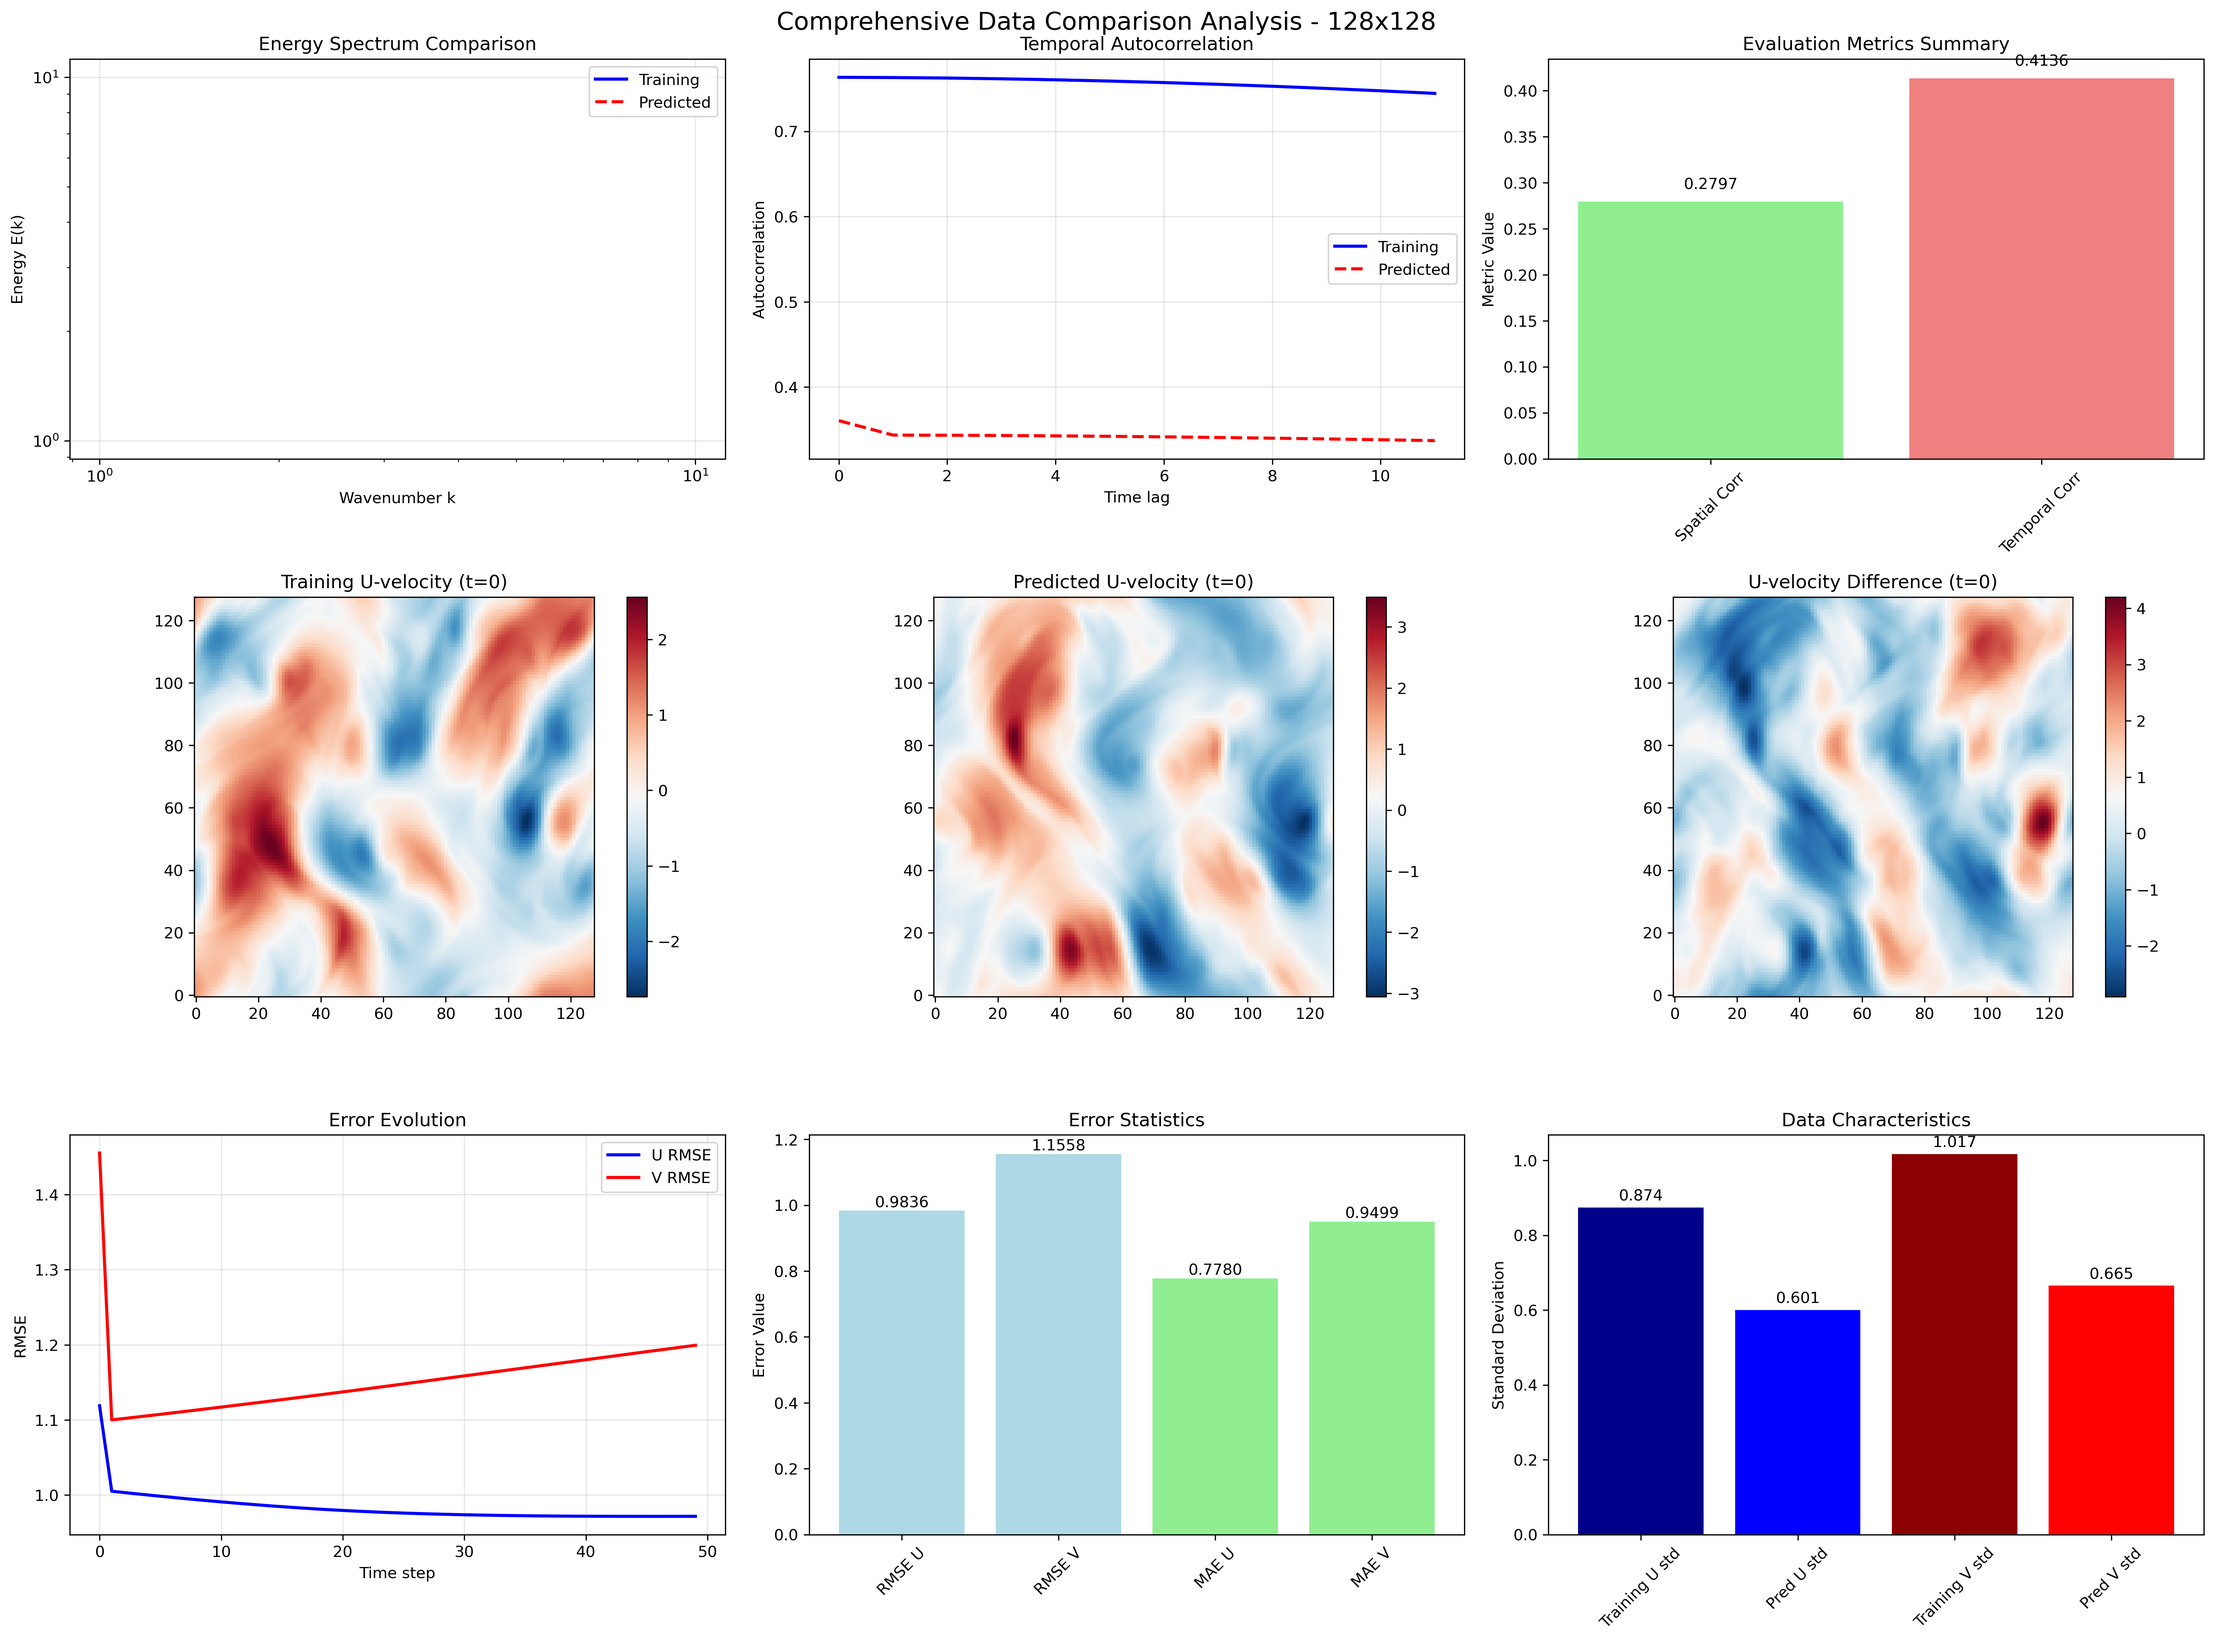
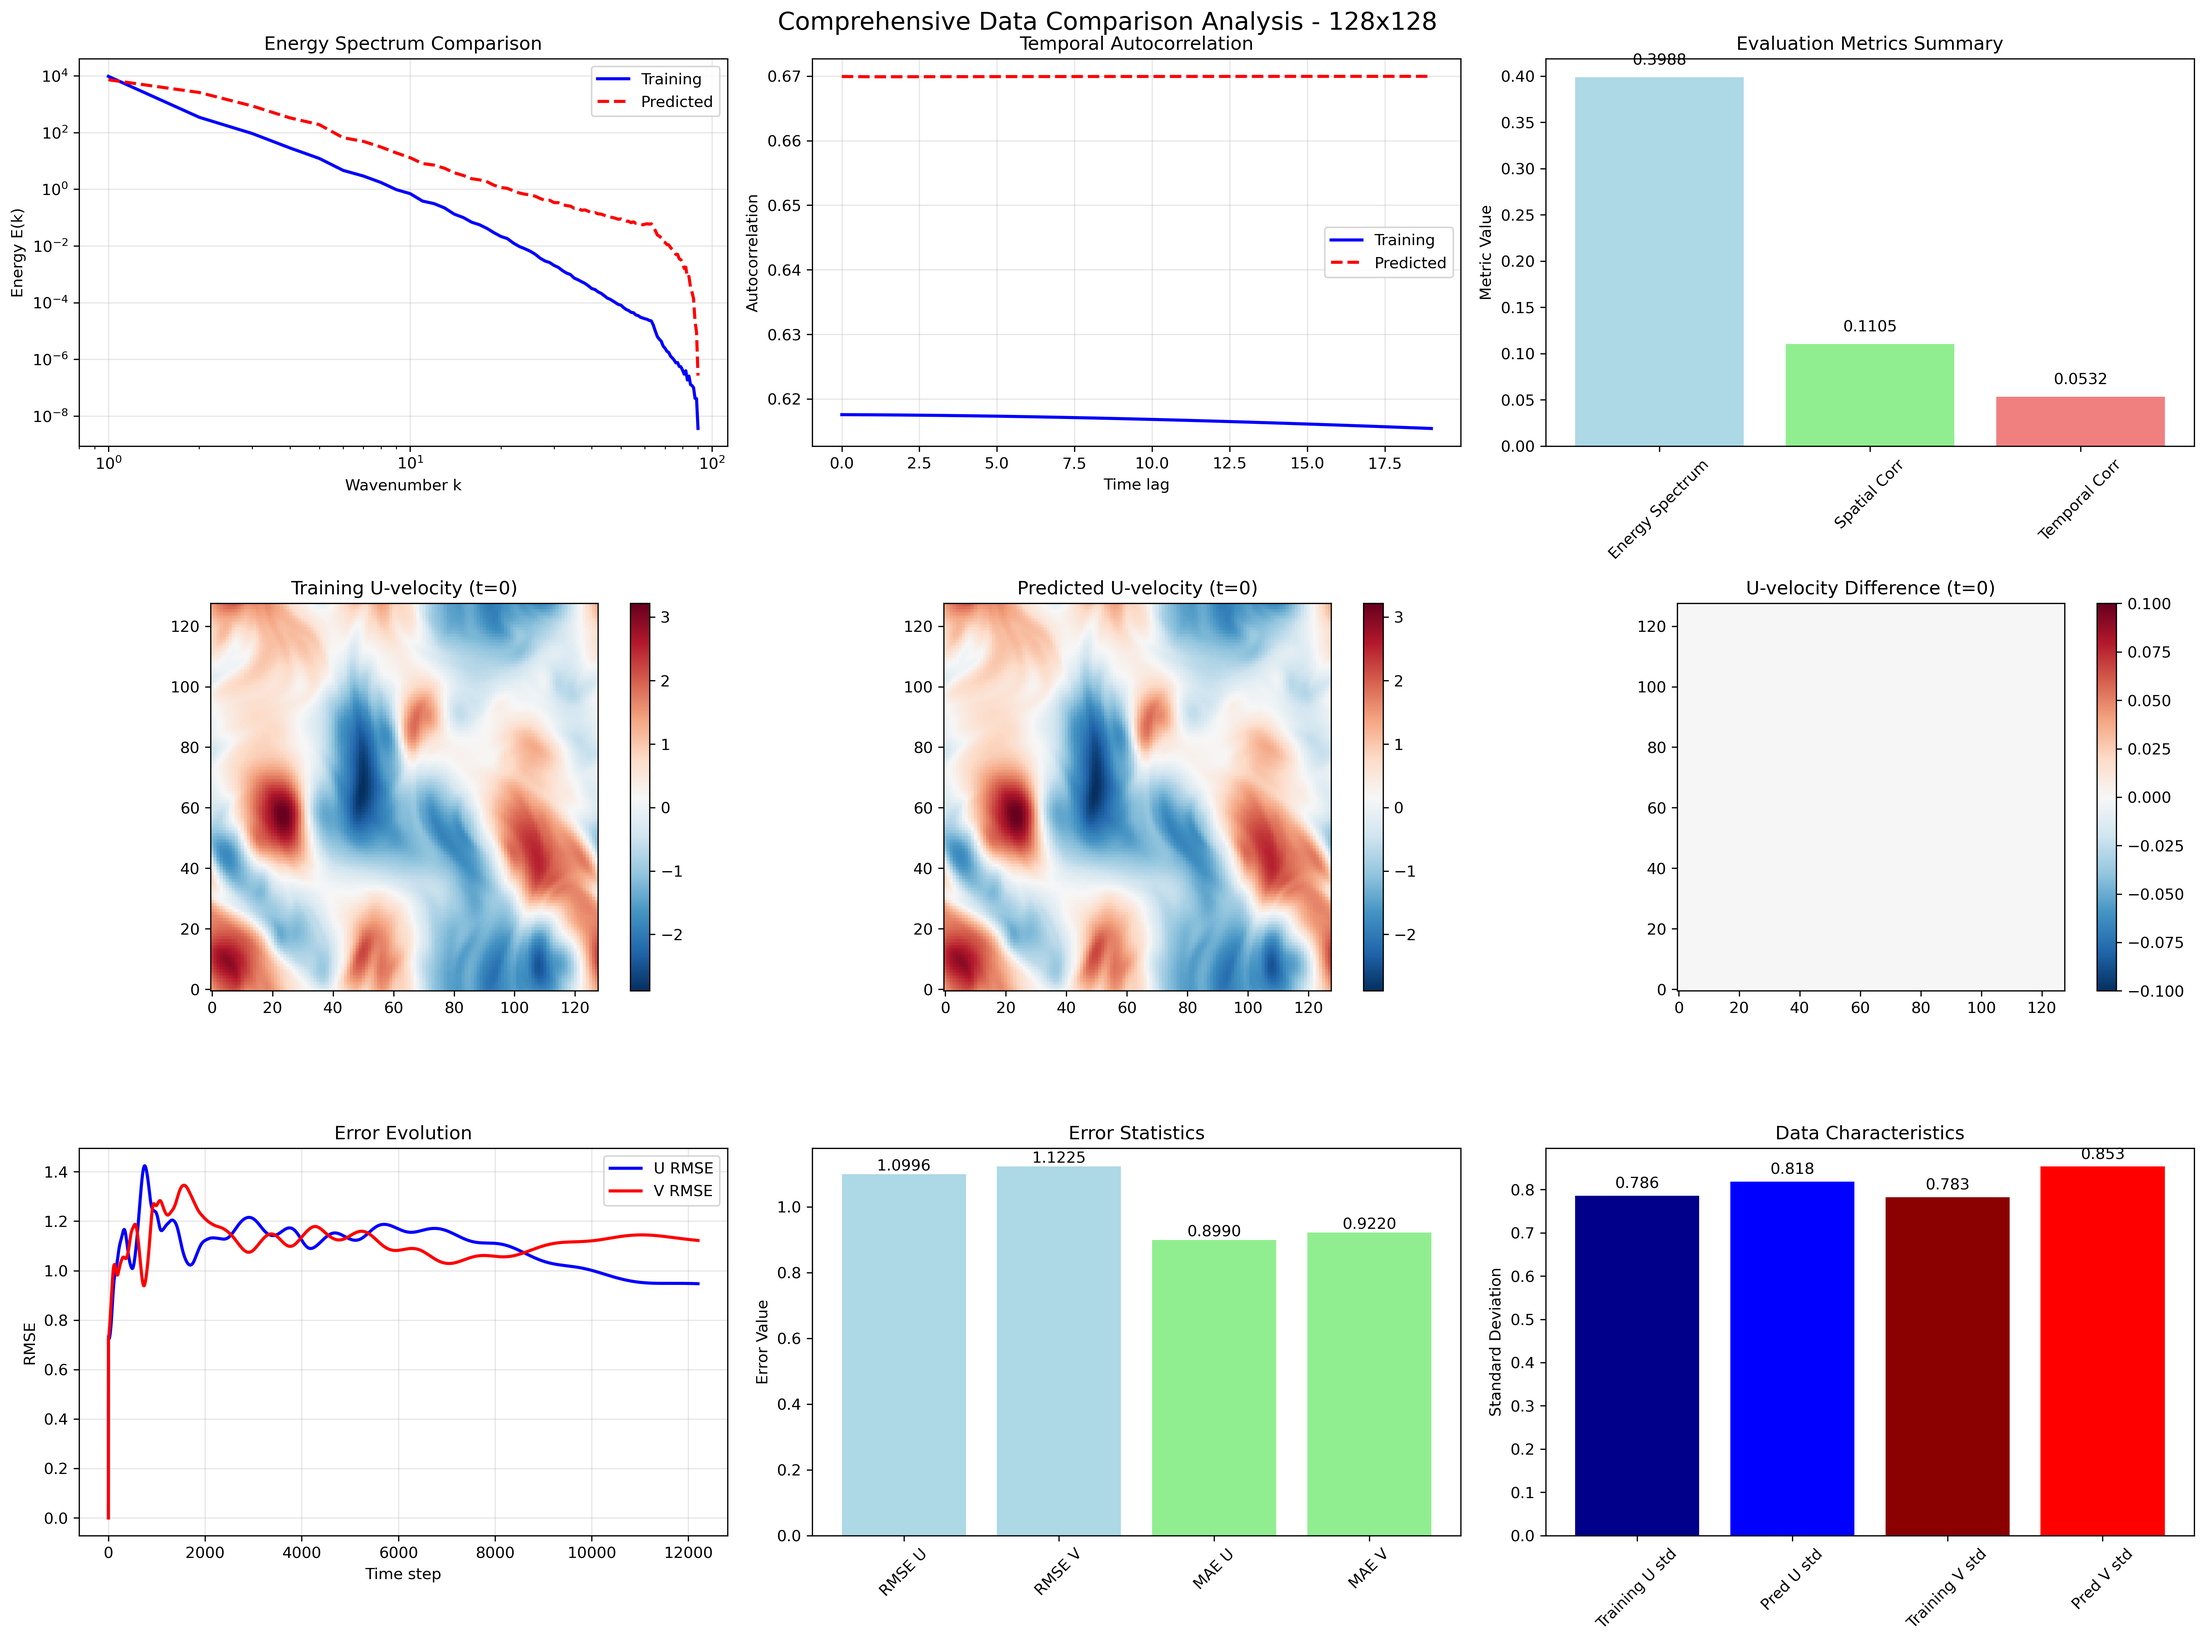
update analysis code

diff --git a/refined_data_comparison.py b/refined_data_comparison.py
@@ -64,16 +64,17 @@ def compute_energy_spectrum(u: np.ndarray, v: np.ndarray) -> np.ndarray:
     
     # Get spatial dimensions
     nx, ny = u.shape[-2], u.shape[-1]
-    kx = jnp.fft.fftfreq(nx, 1.0)
-    ky = jnp.fft.fftfreq(ny, 1.0)
+    kx = jnp.fft.fftfreq(nx, 1.0) * nx  # Scale by nx for proper wavenumber
+    ky = jnp.fft.fftfreq(ny, 1.0) * ny  # Scale by ny for proper wavenumber
     
     # Create 2D wavenumber grid
     kx_grid, ky_grid = jnp.meshgrid(kx, ky, indexing='ij')
     k_magnitude = jnp.sqrt(kx_grid**2 + ky_grid**2)
     
-    # Radial averaging to get 1D spectrum
-    k_max = int(jnp.max(k_magnitude))
-    k_bins = jnp.arange(0, k_max + 1)
+    # FIXED: Radial averaging to get 1D spectrum
+    k_max = int(jnp.max(k_magnitude)) + 1  # +1 to ensure non-empty range
+    k_max = max(k_max, 10)  # Ensure at least 10 bins
+    k_bins = jnp.linspace(0, k_max, k_max + 1)
     energy_spectrum = jnp.zeros((energy_density.shape[0], len(k_bins) - 1))
     
     for i in range(len(k_bins) - 1):
@@ -301,11 +302,9 @@ def main():
         print(f"Processing resolution: {resolution}")
         print(f"{'='*60}")
         
-        # Define file paths
         training_file = f"data/training_data/decaying_turbulence_v2_{resolution}_index_1.npz"
         pred_file = f"data/pict_data/decaying_turbulence_{resolution}_index_1.npz"
         
-        # Check if files exist
         if not os.path.exists(training_file):
             print(f"Training file not found: {training_file}")
             continue
@@ -314,27 +313,21 @@ def main():
             continue
         
         try:
-            # Load and align data with correct sampling
             print("Loading and aligning data...")
             data = load_and_align_data(training_file, pred_file)
             
-            # Apply evaluation metrics
             print("Applying evaluation metrics...")
             results = apply_selected_metrics(data)
             
-            # Store results
             all_results[resolution] = results
             
-            # Create comprehensive visualizations
             print("Creating visualizations...")
             create_comprehensive_plots(data, results, resolution, results_dir)
             
-            # Save detailed results
             results_file = os.path.join(results_dir, f'detailed_results_{resolution}.json')
             with open(results_file, 'w') as f:
                 json.dump(results, f, indent=2)
             
-            # Print summary
             print(f"\n📊 Results Summary for {resolution}:")
             print(f"  Energy Spectrum Metric: {results.get('energy_spectrum_metric', 0):.6f}")
             print(f"  Spatial Correlation Metric: {results.get('spatial_correlation_metric', 0):.6f}")
@@ -350,7 +343,6 @@ def main():
             traceback.print_exc()
             continue
     
-    # Save combined results
     combined_results_file = os.path.join(results_dir, 'all_refined_results.json')
     with open(combined_results_file, 'w') as f:
         json.dump(all_results, f, indent=2)
